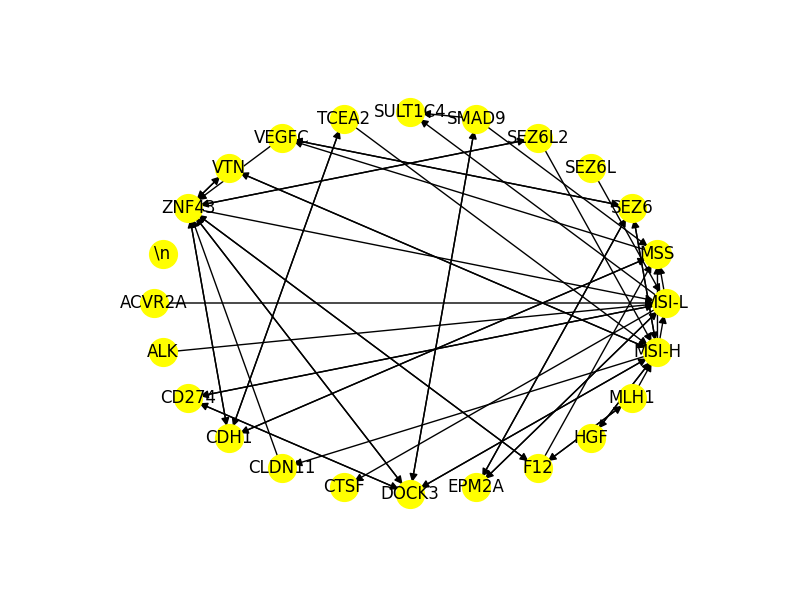
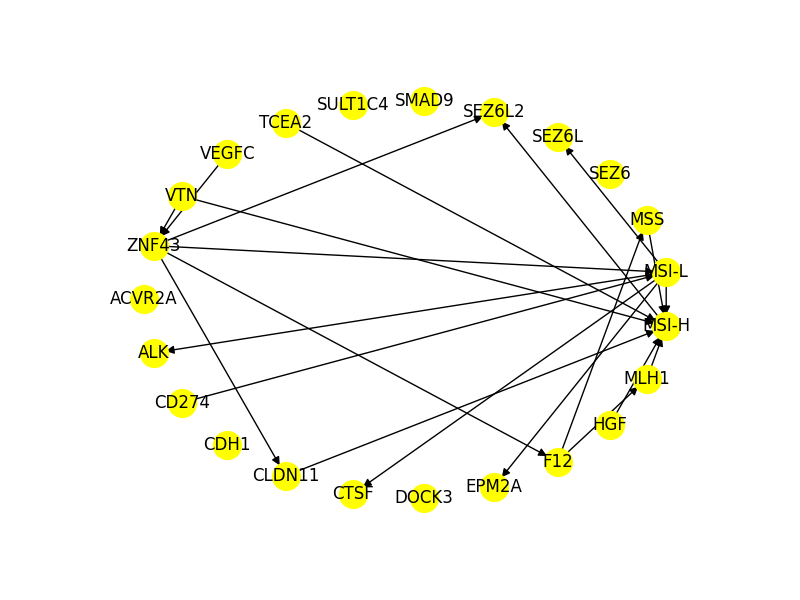
update dowhytest

Changed region(s): [[0.125, 0.15, 0.875, 0.87]]

diff --git a/dowhytest.py b/dowhytest.py
@@ -10,18 +10,35 @@ datat=data[['CLDN11','HGF','CDH1','SEZ6','MLH1','DOCK3','SEZ6L','VTN','EPM2A','C
 glasso = cdt.independence.graph.Glasso()
 skeleton = glasso.predict(datat)
 new_skeleton = cdt.utils.graph.remove_indirect_links(skeleton, alg='aracne')
-model = cdt.causality.graph.PC()
-
+model = cdt.causality.graph.GES()
 output_graph=model.predict(datat,new_skeleton)
-if not nx.is_directed_acyclic_graph(output_graph):
+
+while not nx.is_directed_acyclic_graph(output_graph):
     print("No")
     output_graph = model.predict(datat, new_skeleton)
 print("Yes")
-nx.write_gml(output_graph,"testgraph.gml")
+print(output_graph)
+gmlgenerator=nx.generate_gml(output_graph)
+gmllist=[]
+for i in gmlgenerator:
+    gmllist.append(i)
+gmlstring="".join(gmllist)
 nx.draw_networkx(output_graph, font_size=5)
 plt.show()
 #print(nx.adjacency_matrix(output_graph).todense())
-model_dowhy=dowhy.causal_model.CausalModel(datat,treatment="HGF",outcome="MSI-H",graph="testgraph.gml")
+
+model_dowhy=dowhy.causal_model.CausalModel(datat,treatment="MLH1",outcome="MSI-H",graph=gmlstring)
 model_dowhy.view_model()
 identified_estimand = model_dowhy.identify_effect()
 print(identified_estimand)
+estimate = model_dowhy.estimate_effect(identified_estimand, method_name="backdoor.linear_regression")
+print(estimate)
+refute1_results=model_dowhy.refute_estimate(identified_estimand, estimate,
+        method_name="random_common_cause")
+print(refute1_results)
+refute2_results=model_dowhy.refute_estimate(identified_estimand, estimate,
+        method_name="placebo_treatment_refuter")
+print(refute2_results)
+refute3_results=model_dowhy.refute_estimate(identified_estimand, estimate,
+        method_name="data_subset_refuter")
+print(refute3_results)

diff --git a/test6.py b/test6.py
@@ -1,0 +1,30 @@
+from dowhy import CausalModel
+import dowhy.datasets
+
+# Load some sample data
+data = dowhy.datasets.linear_dataset(
+    beta=10,
+    num_common_causes=5,
+    num_instruments=2,
+    num_samples=10000,
+    treatment_is_binary=True)
+model = CausalModel(
+    data=data["df"],
+    treatment=data["treatment_name"],
+    outcome=data["outcome_name"],
+    graph=data["gml_graph"])
+print(data["gml_graph"])
+# II. Identify causal effect and return target estimands
+identified_estimand = model.identify_effect()
+print(identified_estimand)
+
+# III. Estimate the target estimand using a statistical method.
+estimate = model.estimate_effect(identified_estimand,
+                                 method_name="backdoor.propensity_score_matching")
+print(estimate)
+
+# IV. Refute the obtained estimate using multiple robustness checks.
+refute_results = model.refute_estimate(identified_estimand, estimate,
+                                       method_name="random_common_cause")
+
+print(refute_results)
